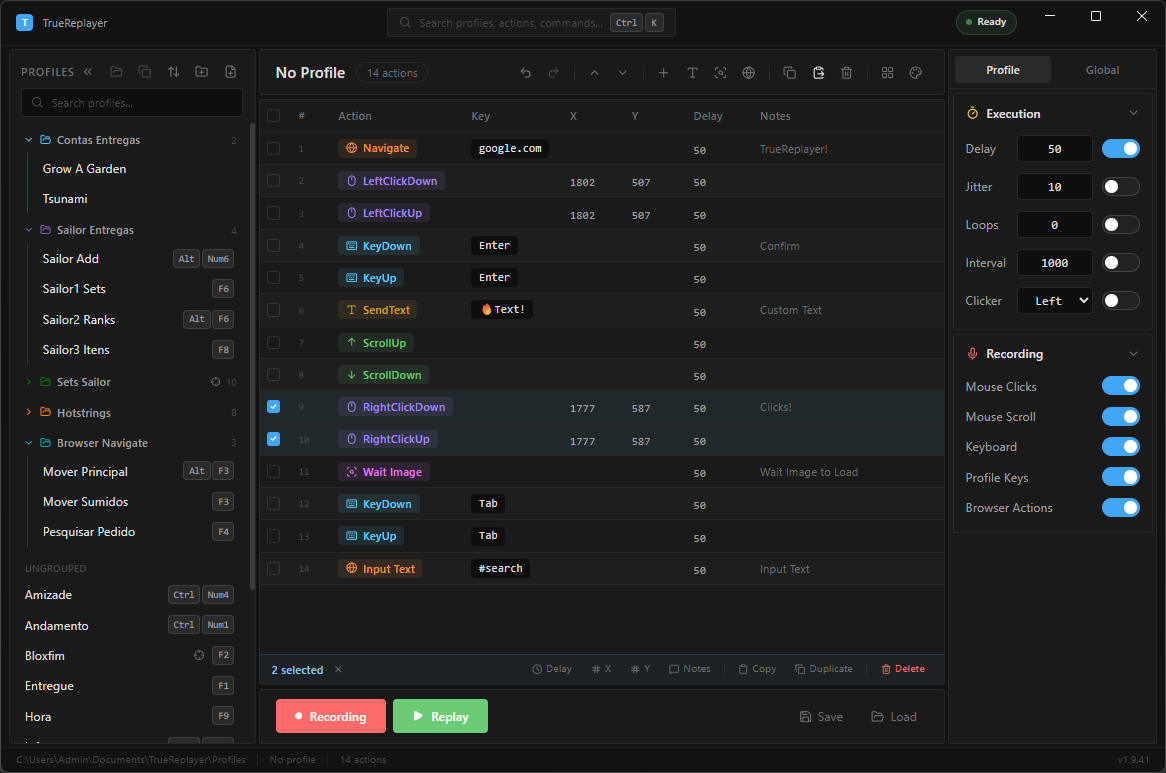
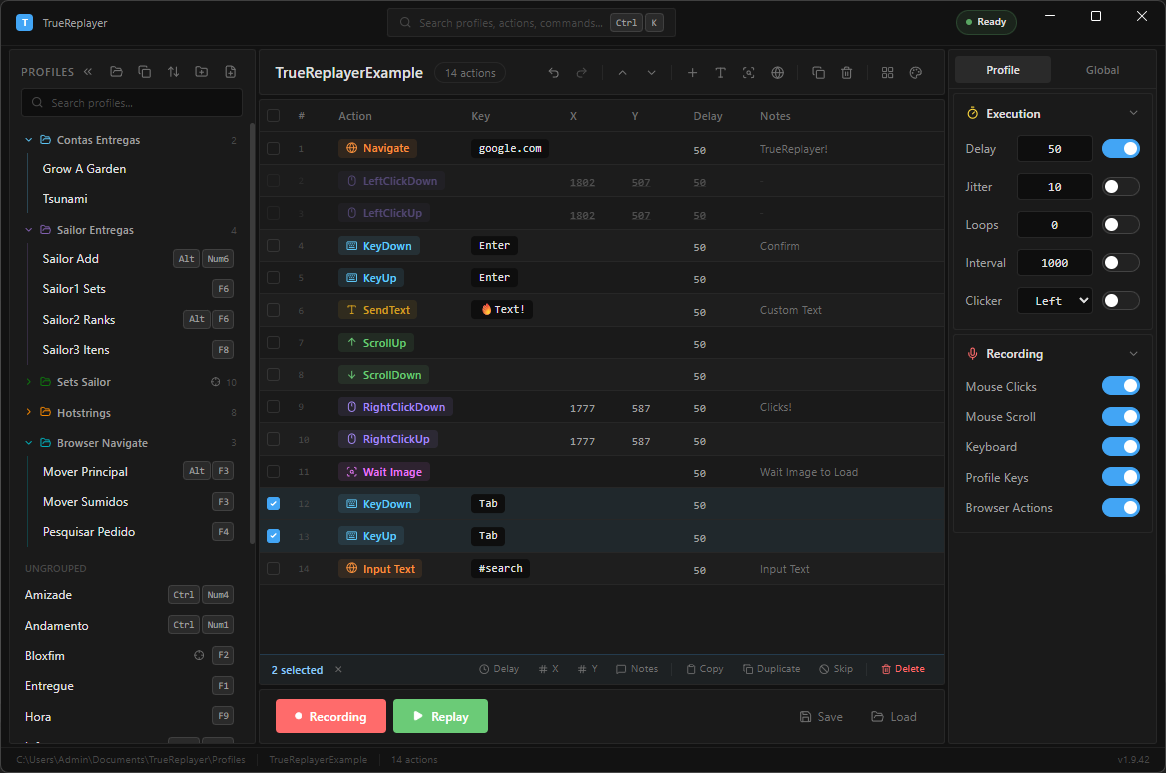
Document Skip feature and refresh main screenshot for v1.9.42
- New Action Table bullet covering the Skip behavior (dimmed rows,
  state persisted in the profile) in both English and Portuguese READMEs
- Replace main screenshot with a v1.9.42 capture that shows the Skip
  button in the bulk action bar and skipped rows rendered dimmed

diff --git a/README.pt-BR.md b/README.pt-BR.md
@@ -72,6 +72,7 @@
 - **Arrastar e soltar** — reordena linhas individuais ou múltiplas pelas alças de grip
 - **Seleção múltipla** — `Ctrl`+clique, `Shift`+clique ou `Ctrl`+A
 - **Operações em lote** — atualiza delay, coordenadas ou notas em todas as linhas selecionadas
+- **Skip** — exclui ações selecionadas do replay temporariamente sem deletar; linhas skipped ficam discretas e o estado é salvo junto com o profile
 - **Select Similar** — seleciona todas as ações do mesmo tipo com um clique
 - **Visibilidade de colunas** — mostra/esconde colunas pela toolbar
 - **Copy & Paste entre profiles** — transfere ações entre quaisquer dois profiles

diff --git a/README.md b/README.md
@@ -72,6 +72,7 @@
 - **Drag & drop** — reorder single or multiple rows with grip handles
 - **Multi-selection** — `Ctrl`+click, `Shift`+click, or `Ctrl`+A
 - **Bulk operations** — update delay, coordinates, or notes across all selected rows
+- **Skip** — temporarily exclude selected actions from replay without deleting them; skipped rows render dimmed and the state is saved with the profile
 - **Select Similar** — select every action of the same type with one click
 - **Column visibility** — show/hide columns from the toolbar
 - **Copy & Paste between profiles** — transfer actions between any two profiles
